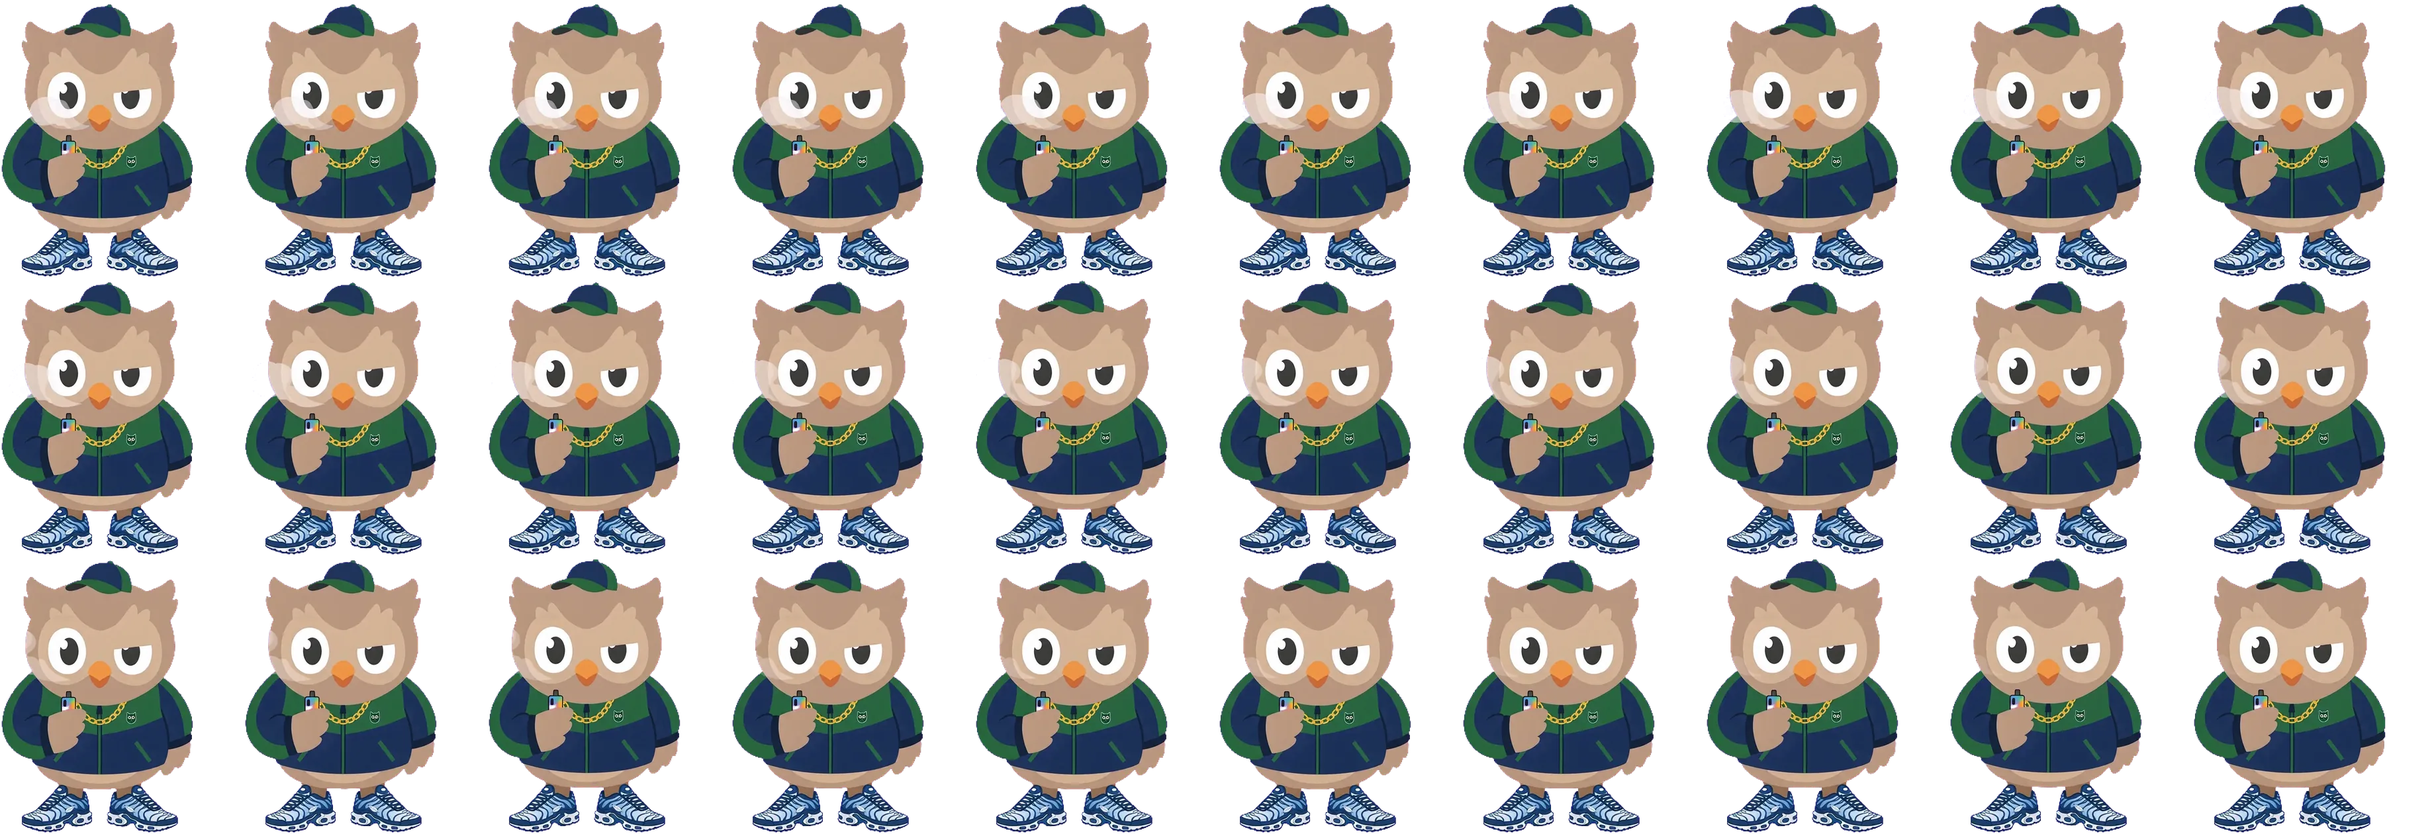
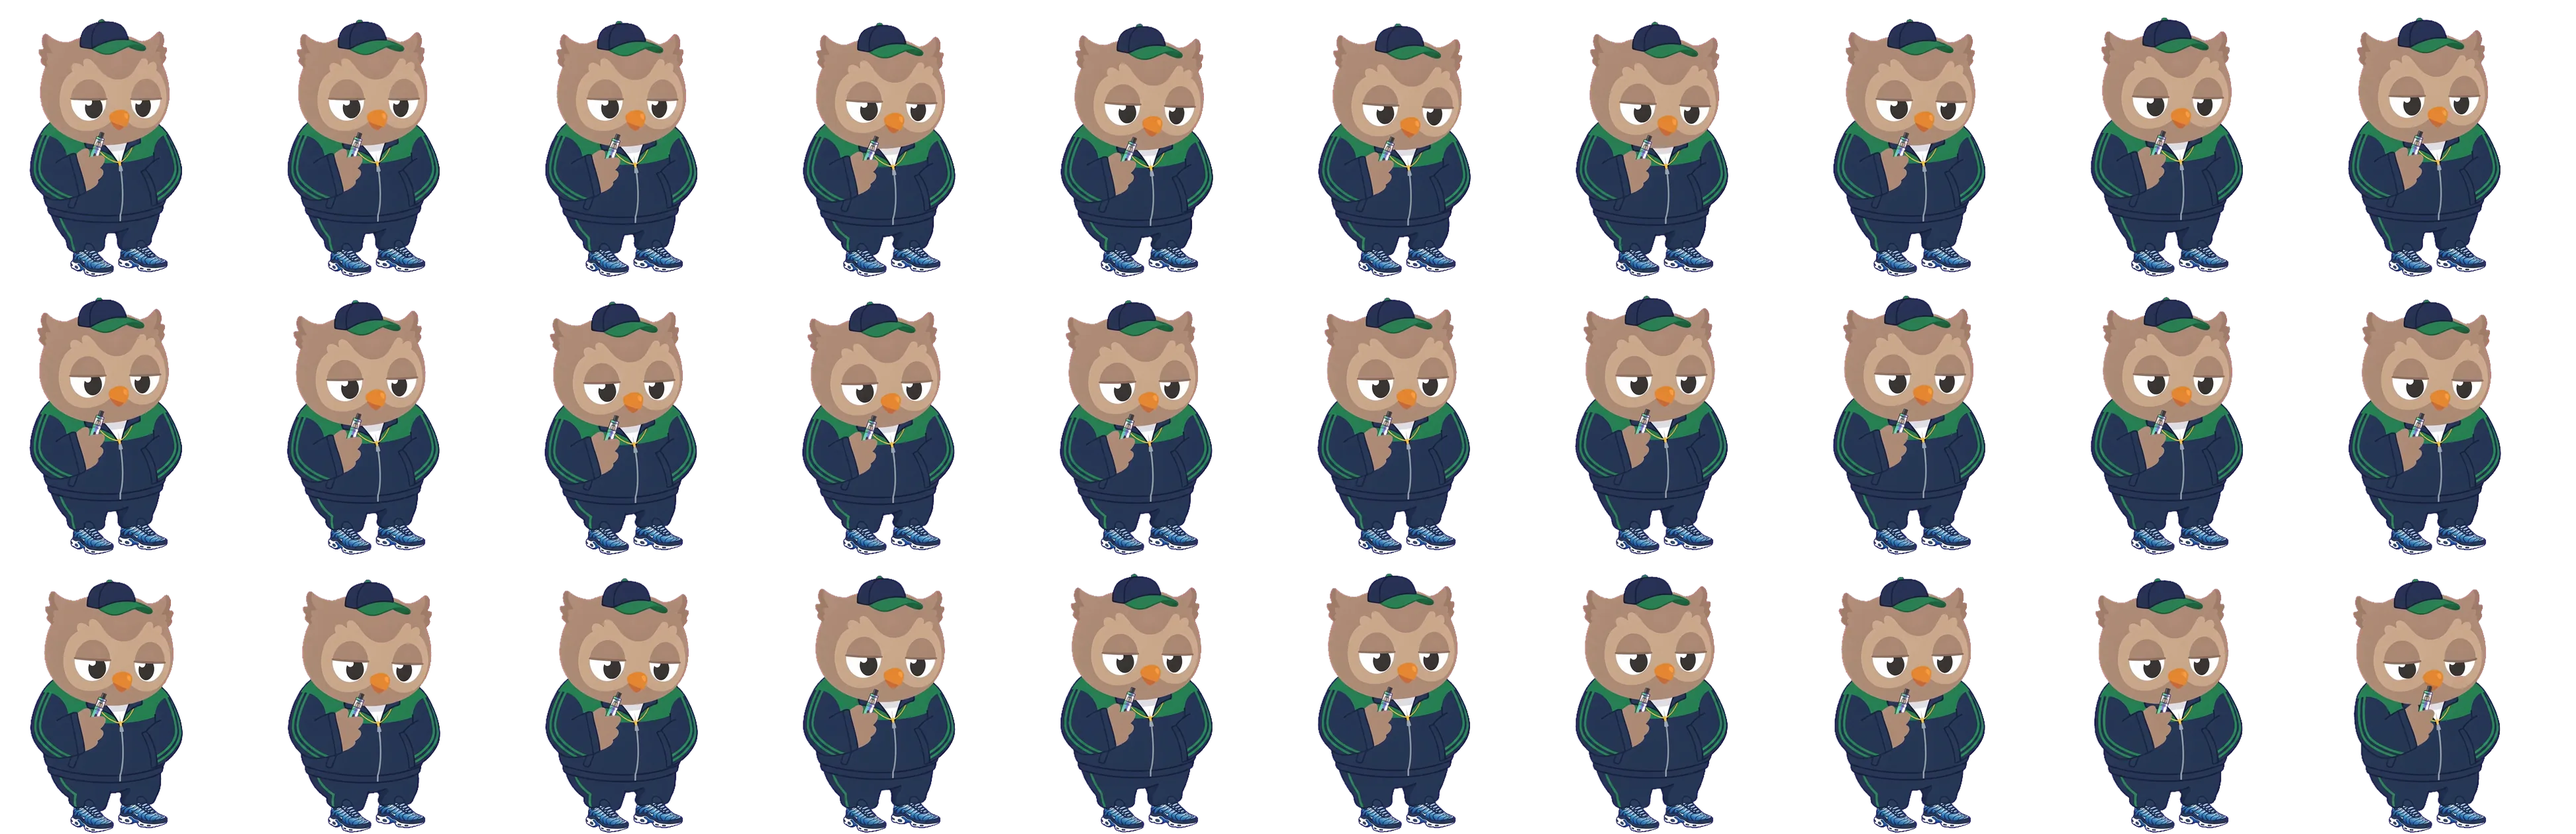
Skins : nouvelles animations Survêt, Tung Tung et Goumin
Claude-Session: https://claude.ai/code/session_01Mhe2sXxeYRTuK8YMvgnzWy

diff --git a/app/js/lexou.js b/app/js/lexou.js
@@ -14,15 +14,15 @@ export const ANIMATIONS = {
   // Série perdue : Lexou regarde sa montre, s'énerve, puis colle son bec contre l'écran (cadre fixe, gros plan compris).
   colere: { l: 533, h: 480, images: 90, boucle: false, cadre: true },
   // Skins animés (boutique et Palais), tirés des vidéos Gemini par scripts/planches.py.
-  goumin: { l: 332, h: 420, images: 120, boucle: true },
+  goumin: { l: 409, h: 420, images: 90, boucle: true },
   'six-sept': { l: 469, h: 420, images: 120, boucle: true },
   performative: { l: 366, h: 420, images: 90, boucle: true },
-  survet: { l: 368, h: 420, images: 90, boucle: true },
+  survet: { l: 389, h: 420, images: 120, boucle: true },
   bosslady: { l: 277, h: 420, images: 90, boucle: true },
   loco: { l: 318, h: 420, images: 90, boucle: true },
   nana: { l: 362, h: 420, images: 90, boucle: true },
   alcoolique: { l: 397, h: 420, images: 90, boucle: true },
-  tung: { l: 398, h: 420, images: 90, boucle: true },
+  tung: { l: 388, h: 420, images: 90, boucle: true },
   noel: { l: 270, h: 420, images: 30, boucle: true },
 };
 
